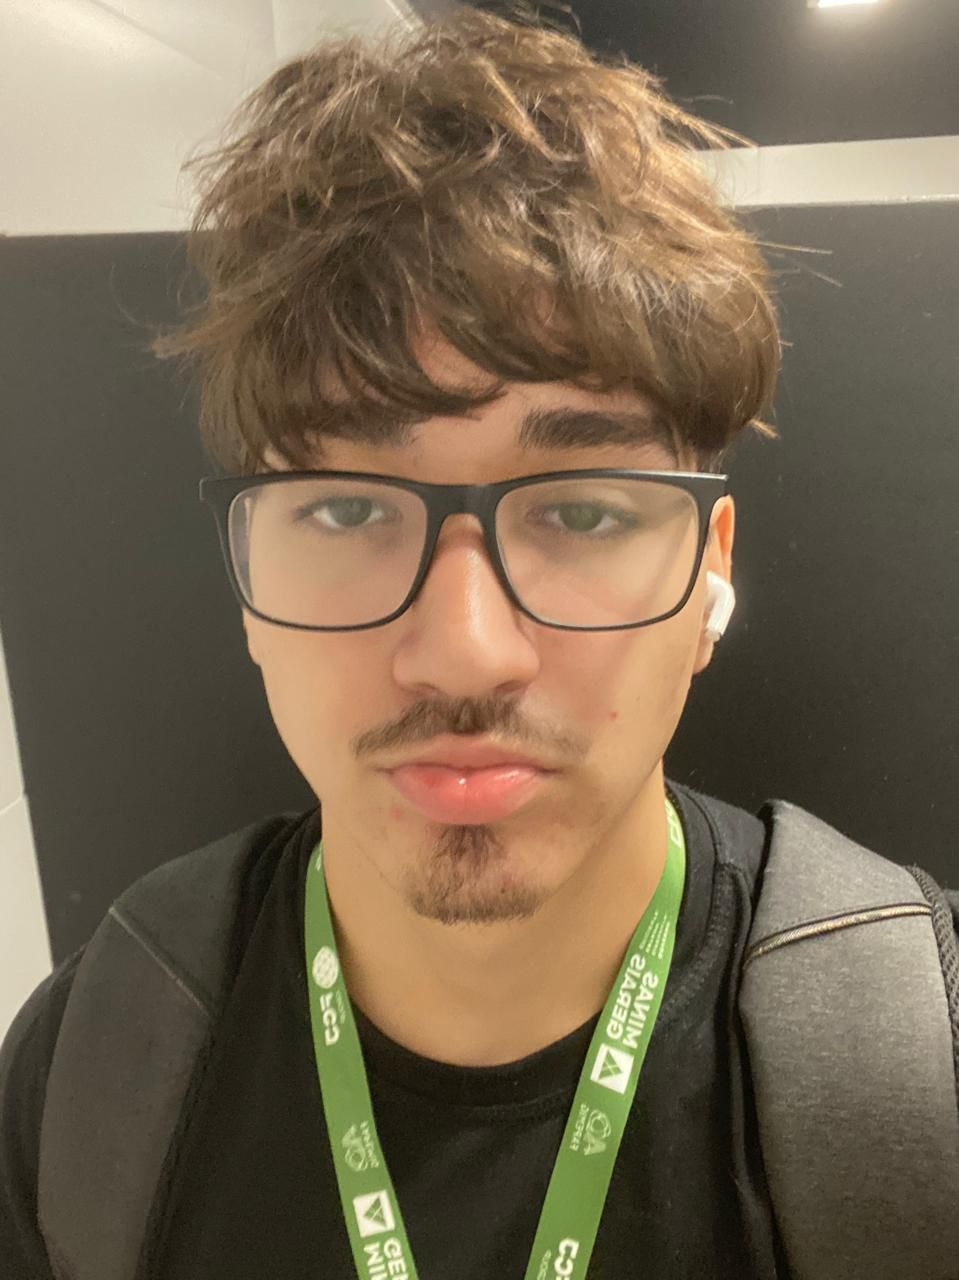
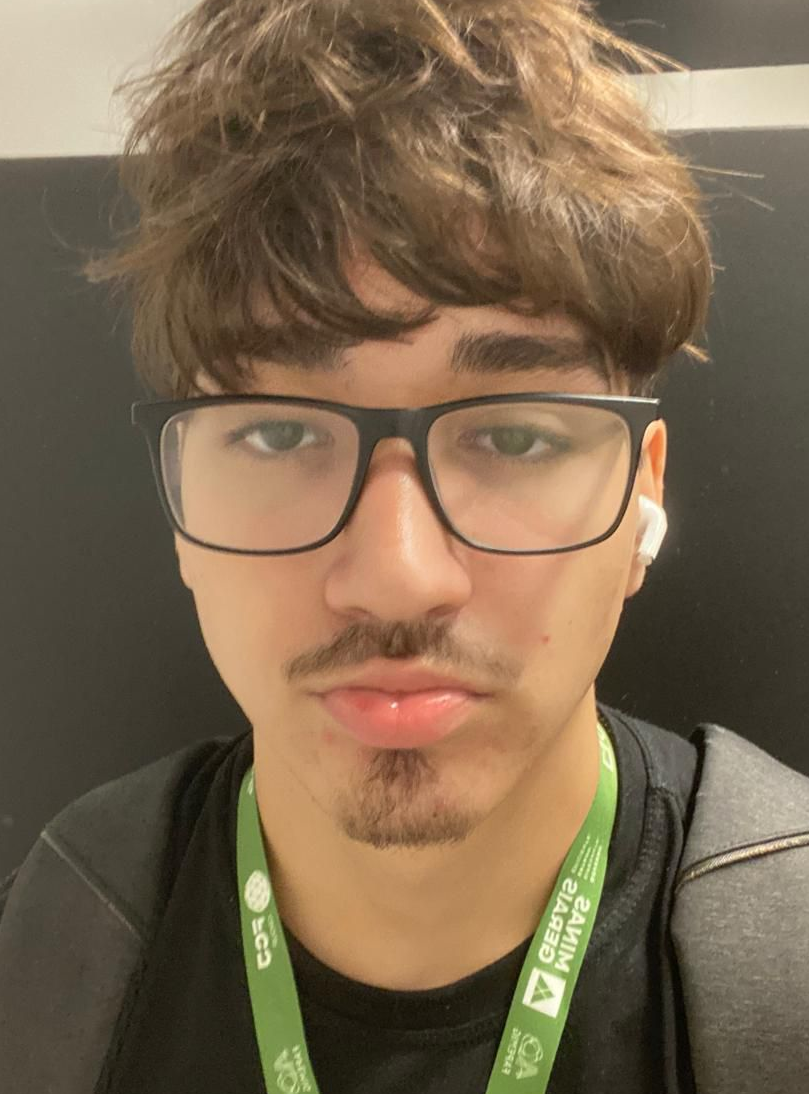
fix/ mexendo em muita coisa

diff --git a/pages/about.html b/pages/about.html
@@ -9,7 +9,6 @@
     <link rel="stylesheet" href="/styles/header.css">
     <link rel="stylesheet" href="/styles/footer.css">
     <link rel="stylesheet" href="/styles/about.css">
-    <link rel="stylesheet" href="/styles/about.css">
 </head>
 
 <body>
@@ -30,10 +29,11 @@
     </script>
 
     <section id="banner">
-        <H1>Sobre a BH Tech</H1>
-        <br>
-        <p>Tecnologia,confiança e atendimento de verdade</p>
-
+        <div class="page-hero">
+            <p class="page-hero-kicker">Quem somos</p>
+            <h1>Sobre a BH Tech</h1>
+            <p>Tecnologia, confiança e atendimento de verdade.</p>
+        </div>
     </section>
 
     <section id="history">
@@ -42,17 +42,17 @@
         <div>
             <h2>Nossa História</h2>
 
-            <p>
+            <p id="subtitle">
                 A BH Tech nasceu com o propósito de oferecer produtos de qualidade e variedade.
                 Marca especializada com transparência e agilidade.
             </p>
 
-            <p>
+            <p id="subtitle">
                 Somos apaixonados por tecnologia e acreditamos que cada cliente merece soluções
                 que facilitem o dia a dia.
             </p>
 
-            <p>
+            <p id="subtitle">
                 Trabalhamos com dedicação para entregar os melhores produtos e um atendimento
                 diferenciado para nossos clientes.
             </p>
@@ -125,37 +125,37 @@
             <div class="team-card">
                 <img src="/images/matheus.png" alt="Matheus ">
                 <h3>Matheus Bach</h3>
-                <p>Tech Lead</p>
+                <p id="subtitle">Tech Lead</p>
             </div>
 
             <div class="team-card">
                 <img src="/images/bruno.png" alt="Bruno Pimenta">
                 <h3>Bruno Pimenta</h3>
-                <p>Dev</p>
+                <p id="subtitle">Dev</p>
             </div>
 
             <div class="team-card">
                 <img src="/images/gabriel.png" alt="Gabriel Luiz">
                 <h3>Gabriel Luis</h3>
-                <p>Dev</p>
+                <p id="subtitle">Dev</p>
             </div>
 
             <div class="team-card">
                 <img src="/images/arthur.png" alt="Arthur da Silva ">
                 <h3>Arthur Leite</h3>
-                <p>Dev</p>
+                <p id="subtitle">Dev</p>
            
             </div>
 
                         <div class="team-card">
                 <img src="/images/andre.png" alt="Andre Sette">
                 <h3>Andre Sette</h3>
-                <p>Designer</p>
+                <p id="subtitle">Designer</p>
             </div>
                         <div class="team-card">
                 <img src="/images/borges.png" alt="Pedro Fernandez">
                 <h3>Pedro Fernandez</h3>
-                <p>Copywriter</p>
+                <p id="subtitle">Copywriter</p>
             </div>
 
         </div>

diff --git a/pages/catalog.html b/pages/catalog.html
@@ -29,12 +29,10 @@
     </script>
         <section class="catalog-page">
         <div class="catalog-main">
-            <section class="catalog-hero" aria-labelledby="catalog-title">
-                <div class="catalog-hero-inner">
-                    <div class="catalog-kicker catalog-kicker-inter">catálogo</div>
-                    <h1 class="catalog-title-poppins" id="catalog-title">Produtos e Serviços</h1>
-                    <p class="catalog-subtitle-inter">Confira nossos itens com imagem, categoria, preço, descrição e disponibilidade.</p>
-                </div>
+            <div class="page-hero">
+                <p class="page-hero-kicker">catálogo</p>
+                <h1>Produtos e Serviços</h1>
+                <p>Confira nossos itens com imagem, categoria, preço, descrição e disponibilidade.</p>
             </div>
 
             <div class="catalog-controls" aria-label="Controles de pesquisa e filtros">

diff --git a/styles/global.css b/styles/global.css
@@ -23,3 +23,36 @@
 html, body {
     min-height: 100vh;
 }
+
+/* padrao das paginas*/
+.page-hero {
+    width: min(1180px, calc(100% - 44px));
+    margin: 0 auto;
+    padding: clamp(100px, 14vh, 140px) 0 clamp(24px, 4vh, 48px);
+}
+
+.page-hero-kicker {
+    color: var(--cor-amarelo) !important;
+    font-family: var(--fonte-secundaria);
+    font-size: 0.78rem;
+    font-weight: 800;
+    letter-spacing: 0.14em;
+    text-transform: uppercase;
+    margin-bottom: 10px;
+}
+
+.page-hero h1 {
+    color: #fff;
+    font-size: clamp(2rem, 3.2vw, 3.6rem);
+    font-weight: 740;
+    line-height: 1.05;
+    margin-bottom: 10px;
+}
+
+.page-hero p {
+    max-width: 560px;
+    font-family: var(--fonte-secundaria);
+    font-size: 1rem;
+    line-height: 1.65;
+    color: rgba(255, 252, 248, 0.72);
+}

diff --git a/styles/cart.css b/styles/cart.css
@@ -40,12 +40,14 @@ svg {
     padding: clamp(34px, 5vh, 66px) 0 78px;
 }
 
-.cart-hero {
+.cart-hero,
+.cart-main > .page-hero {
     max-width: 760px;
     margin-bottom: 28px;
 }
 
-.cart-kicker {
+.cart-kicker,
+.cart-main .page-hero-kicker {
     color: var(--cor-amarelo);
     font-family: var(--fonte-secundaria);
     font-size: 0.78rem;
@@ -56,7 +58,8 @@ svg {
     text-transform: uppercase;
 }
 
-.cart-hero h1 {
+.cart-hero h1,
+.cart-main .page-hero h1 {
     color: #fff;
     font-size: clamp(2.15rem, 3.4vw, 4.15rem);
     font-weight: 740;
@@ -65,9 +68,9 @@ svg {
     margin: 0;
 }
 
-.cart-hero p {
+.cart-hero p,
+.cart-main .page-hero p {
     max-width: 620px;
-    color: rgba(255, 252, 248, 0.7);
     font-family: var(--fonte-secundaria);
     font-size: 1rem;
     line-height: 1.7;

diff --git a/pages/header.html b/pages/header.html
@@ -3,12 +3,6 @@
         BH Tech
     </div>
 
-    <button class="hamburger" id="hamburger" aria-label="Menu">
-        <span></span>
-        <span></span>
-        <span></span>
-    </button>
-
     <div class="header-right">
         <nav id="nav">
             <a href="/index.html">Home</a>
@@ -27,6 +21,12 @@
                 <path d="M16 10a4 4 0 0 1-8 0"/>
             </svg>
             <span class="cart-badge" id="cart-badge" hidden>0</span>
+        </button>
+
+        <button class="hamburger" id="hamburger" aria-label="Menu">
+            <span></span>
+            <span></span>
+            <span></span>
         </button>
     </div>
 

diff --git a/pages/cart.html b/pages/cart.html
@@ -16,8 +16,8 @@
     <div id="header-container"></div>
 
     <main class="cart-main">
-        <section class="cart-hero" aria-labelledby="cart-title">
-            <p class="cart-kicker">Checkout seguro</p>
+        <section class="page-hero" aria-labelledby="cart-title">
+            <p class="page-hero-kicker">Checkout seguro</p>
             <h1 id="cart-title">Meu carrinho</h1>
             <p>Revise seus produtos, aplique cupom e envie o pedido direto para a equipe BH Tech.</p>
         </section>

diff --git a/pages/location.html b/pages/location.html
@@ -30,9 +30,11 @@
     </script>
 
     <section id="banner">
-        <h1>Localização</h1>
-        <p>Visite nossa loja física e conheça nossos produtos e serviços de perto.</p>
-        
+        <div class="page-hero">
+            <p class="page-hero-kicker">Onde estamos</p>
+            <h1>Localização</h1>
+            <p>Visite nossa loja física e conheça nossos produtos e serviços de perto.</p>
+        </div>
     </section>
 
     <div id="info-map-container">

diff --git a/pages/products.html b/pages/products.html
@@ -31,8 +31,11 @@
     </script>
 
     <section id="banner">
-        <h1>Produtos</h1>
-        <p>Confira nossa seleção de smartphones, acessórios e serviços com garantia e procedência.</p>
+        <div class="page-hero">
+            <p class="page-hero-kicker">Nossa loja</p>
+            <h1>Produtos</h1>
+            <p>Confira nossa seleção de smartphones, acessórios e serviços com garantia e procedência.</p>
+        </div>
     </section>
 
 

diff --git a/styles/about.css b/styles/about.css
@@ -2,17 +2,25 @@ body{
     background-color: var(--cor-preta);
     height: 1800px;
     color: white;
+    font-family: var(--fonte-padrao);
 }
 
 #banner {
     padding: 20px;
     text-align: left;
     padding-top: 100px;
+}
 
+#banner .page-hero {
+    padding: 0;
+    width: 100%;
+}
+
+#subtitle{
+    font-family: var(--fonte-secundaria);
 }
 
 #banner p{
-    font-size: 1.2rem;
     font-weight: 500;
 }
 

diff --git a/styles/catalog.css b/styles/catalog.css
@@ -26,12 +26,18 @@ body {
     padding-bottom: clamp(1.5rem, 3vh, 2.5rem);
 }
 
-.catalog-hero {
+.catalog-hero,
+.catalog-main > .page-hero {
     margin-bottom: 24px;
 }
 
 .catalog-hero-inner {
     padding-top: clamp(2rem, 5vh, 4.25rem);
+}
+
+.catalog-main > .page-hero {
+    padding-top: clamp(80px, 12vh, 120px);
+    padding-bottom: 0;
 }
 
 .catalog-kicker {

diff --git a/js/cartPage.js b/js/cartPage.js
@@ -561,7 +561,7 @@ function applyCoupon() {
 
     if (!COUPONS[code]) {
         cartState.activeCoupon = null;
-        setCouponMessage("Cupom não encontrado. Tente BHCELULAR10 ou PRIMEIRA50.", "is-error");
+        setCouponMessage("Cupom não encontrado.", "is-error");
         updateSummary();
         return;
     }

diff --git a/styles/feedback.css b/styles/feedback.css
@@ -63,7 +63,6 @@ svg {
 .feedback-hero p,
 .form-copy p:last-child {
     max-width: 560px;
-    color: rgba(255, 252, 248, 0.72);
     font-family: var(--fonte-secundaria);
     font-size: 1rem;
     line-height: 1.65;
